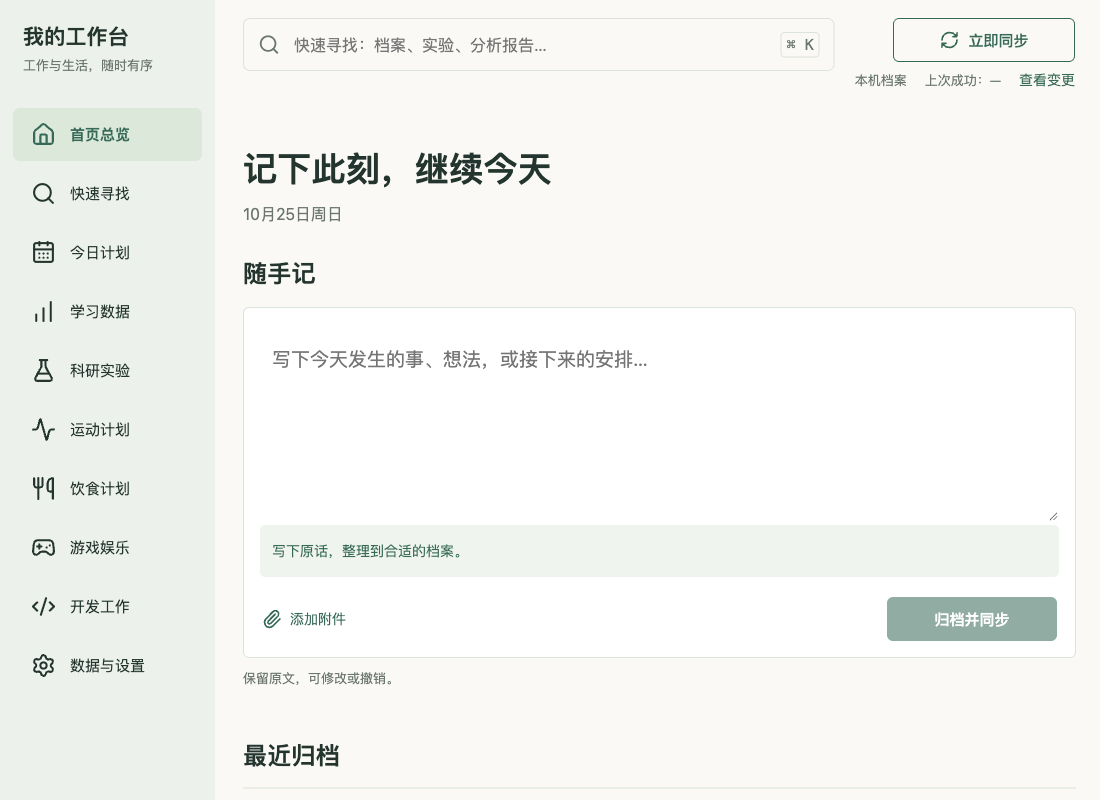
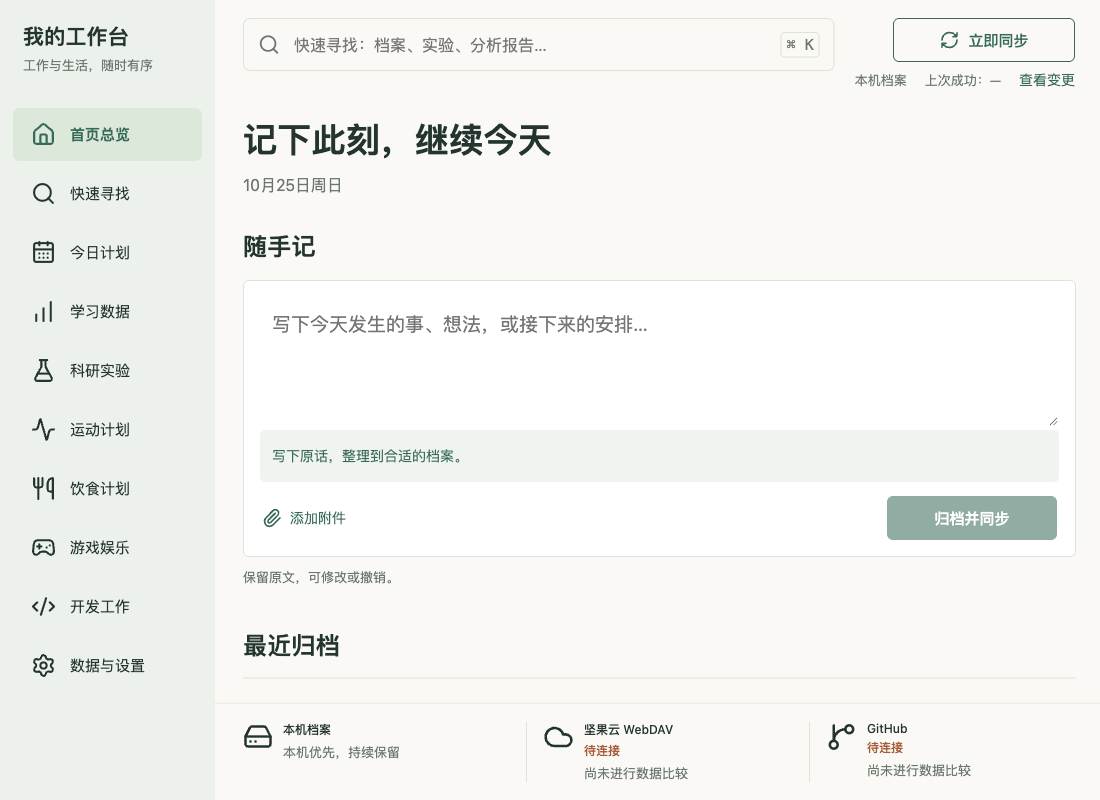
release: verify local workbench candidate and packaged Mac app

diff --git a/tests/electron/acceptance-boundaries.spec.ts b/tests/electron/acceptance-boundaries.spec.ts
@@ -1,0 +1,33 @@
+import { test,expect } from '@playwright/test'
+import { launchTestApp } from '../helpers/electron-app'
+import { fakeWebdav } from '../helpers/fake-webdav'
+import { makeRecord } from '../../src/shared/schemas'
+import { serializeRecord } from '../../src/main/archive/codec'
+import { mkdir,writeFile } from 'node:fs/promises'
+import { join } from 'node:path'
+
+test('reviewed cloud differences visibly identify additions, edits, deletions, direction and comparison time',async()=>{
+ const dav=await fakeWebdav(),t=await launchTestApp({syncReady:true});try{
+  await t.page.evaluate(async url=>{await window.aia.connections.configure({id:'webdav',url,username:'synthetic',secret:'SYNTHETIC_ONLY'});await window.aia.connections.test('webdav');await window.aia.sync.run()},dav.url)
+  const edit=makeRecord('document',{title:'修改项',body:'old'}),remove=makeRecord('document',{title:'删除项',body:'old'})
+  await t.page.evaluate(async records=>{for(const record of records)await window.aia.records.save({record,expectedHash:null});await window.aia.sync.run()},[edit,remove])
+  const e=(await t.page.evaluate(id=>window.aia.records.get(id),edit.id))!,r=(await t.page.evaluate(id=>window.aia.records.get(id),remove.id))!
+  // The restore guard lets us inspect all differences without publishing them first.
+  const ready=join(t.stateRoot,'settings/archive-ready.json');await writeFile(ready,JSON.stringify({ready:false}));await t.app.close()
+  const next=await launchTestApp({archiveRoot:t.archiveRoot,stateRoot:t.stateRoot});try{
+   await next.page.evaluate(async p=>{await window.aia.records.save({record:{...p.e.record,body:'edited'},expectedHash:p.e.hash});await window.aia.records.remove(p.r.record.id,p.r.hash);await window.aia.records.save({record:p.add,expectedHash:null});await window.aia.sync.run()},{e,r,add:makeRecord('document',{title:'新增项',body:'new'})})
+   await next.page.getByRole('button',{name:'查看变更',exact:true}).click();const region=next.page.getByRole('region',{name:'本轮变更比较'});await expect(region).toContainText('来源已完整比较');await expect(region).toContainText('新增');await expect(region).toContainText('修改');await expect(region).toContainText('删除');await expect(region).toContainText('坚果云 WebDAV');const state=await next.page.evaluate(()=>window.aia.sync.getState());await expect(region).toContainText(state.comparison!.at);await expect(region).toContainText(e.path);await expect(region).toContainText(r.path)
+  }finally{await next.close()}
+ }finally{await t.close();await dav.close()}
+})
+
+test('a file actually archived externally becomes searchable while a chat-only sentence stays absent',async()=>{
+ const t=await launchTestApp();try{const archived=makeRecord('document',{module:'learning',title:'合成授权工具落档',body:'实际落档边界唯一词'}),chatOnly='仅聊天未落档边界唯一词';const dir=join(t.archiveRoot,'学习数据');await mkdir(dir,{recursive:true});await writeFile(join(dir,'授权落档.md'),serializeRecord(archived));await expect.poll(async()=>(await t.page.evaluate(()=>window.aia.search.query({query:'实际落档边界唯一词'}))).items.map(i=>i.recordId)).toContain(archived.id);expect((await t.page.evaluate(query=>window.aia.search.query({query}),chatOnly)).items).toHaveLength(0);await t.page.getByLabel('全局关键词搜索').fill('实际落档边界唯一词');await t.page.getByLabel('全局关键词搜索').press('Enter');await expect(t.page.getByRole('button',{name:/合成授权工具落档/})).toBeVisible()}finally{await t.close()}
+})
+
+test('search module, type and inclusive date filters narrow real content without changing its identity',async()=>{
+ const t=await launchTestApp();try{
+  const records=[makeRecord('note',{module:'learning',title:'目标筛选记录',date:'2026-10-25',body:'筛选验收关键词'}),makeRecord('document',{module:'learning',title:'不同类型',date:'2026-10-25',body:'筛选验收关键词'}),makeRecord('note',{module:'learning',title:'不同日期',date:'2026-10-24',body:'筛选验收关键词'}),makeRecord('document',{module:'research',title:'不同模块',date:'2026-10-25',body:'筛选验收关键词'})]
+  await t.page.evaluate(async records=>{for(const record of records)await window.aia.records.save({record,expectedHash:null})},records);await t.page.getByLabel('全局关键词搜索').fill('筛选验收关键词');await t.page.getByLabel('全局关键词搜索').press('Enter');await expect(t.page.getByText('找到 4 份内容',{exact:true})).toBeVisible();await t.page.getByLabel('搜索模块',{exact:true}).selectOption('learning');await expect(t.page.getByText('找到 3 份内容',{exact:true})).toBeVisible();await t.page.getByLabel('搜索类型',{exact:true}).selectOption('note');await expect(t.page.getByText('找到 2 份内容',{exact:true})).toBeVisible();await t.page.getByLabel('搜索开始日期',{exact:true}).fill('2026-10-25');await t.page.getByLabel('搜索结束日期',{exact:true}).fill('2026-10-25');await expect(t.page.getByText('找到 1 份内容',{exact:true})).toBeVisible();await t.page.getByRole('button',{name:'打开档案：目标筛选记录',exact:true}).click();await expect(t.page.getByRole('dialog',{name:'目标筛选记录'})).toContainText(records[0].body)
+ }finally{await t.close()}
+})

diff --git a/tests/electron/visual.spec.ts b/tests/electron/visual.spec.ts
@@ -2,3 +2,18 @@ import { test,expect } from '@playwright/test'
 import { launchTestApp } from '../helpers/electron-app'
 import { mkdir } from 'node:fs/promises'
 test('desktop and smaller windows keep primary controls reachable without horizontal overflow',async()=>{const t=await launchTestApp();try{const errors:string[]=[];t.page.on('pageerror',e=>errors.push(e.message));for(const size of [{width:1487,height:1058},{width:1100,height:800}]){await t.page.setViewportSize(size);await expect(t.page.getByRole('heading',{name:'随手记',exact:true})).toBeVisible();await expect(t.page.getByRole('button',{name:'归档并同步',exact:true})).toBeVisible();await expect(t.page.getByRole('button',{name:'立即同步',exact:true})).toBeVisible();expect(await t.page.evaluate(()=>document.documentElement.scrollWidth<=window.innerWidth)).toBe(true);await mkdir('docs/acceptance/screenshots',{recursive:true});await t.page.screenshot({path:`docs/acceptance/screenshots/home-${size.width}.png`})}expect(errors).toEqual([])}finally{await t.close()}})
+
+test('populated synthetic home preserves selected composition, primary controls and readable detail at both desktop sizes',async()=>{
+ const {makeRecord}=await import('../../src/shared/schemas'),{join}=await import('node:path'),{writeFile}=await import('node:fs/promises'),daily=(await import('../fixtures/garmin/daily.json',{with:{type:'json'}})).default
+ const t=await launchTestApp();try{
+  const errors:string[]=[];t.page.on('pageerror',e=>errors.push(e.message));const dir=join(t.archiveRoot,'运动/数据/2026-10-25');await mkdir(dir,{recursive:true});await writeFile(join(dir,'佳明快照.json'),JSON.stringify(daily))
+  const note=makeRecord('note',{module:'learning',title:'合成示例：偏微分方程笔记',date:'2026-10-25',body:'用于界面验收的合成笔记，不是个人档案。',data:{chapter:'边值问题',durationMin:30,nextStep:'复习证明'}}),experiment=makeRecord('experiment',{module:'research',title:'合成示例：实验参数比较',date:'2026-10-25',body:'用于界面验收的合成结果。',data:{experimentNo:'DEMO-01',status:'running',purpose:'比较参数',parameters:{step:0.1},result:'等待结果'}})
+  await t.page.evaluate(async p=>{for(const record of p.records)await window.aia.records.save({record,expectedHash:null});await window.aia.plans.schedule({sourceId:p.noteId,date:'2026-10-25',title:'合成示例：复习证明'})},{records:[note,experiment],noteId:note.id})
+  await t.page.getByLabel('随手记内容',{exact:true}).fill('今天早餐吃了鸡蛋');await expect(t.page.getByLabel('事项1分类')).toHaveValue('diet');await expect(t.page.getByRole('region',{name:'佳明今日'})).toContainText('1234')
+  for(const size of [{width:1487,height:1058},{width:1100,height:800}]){
+   await t.page.setViewportSize(size);await t.page.evaluate(()=>window.scrollTo(0,0));await expect(t.page.getByRole('button',{name:'立即同步',exact:true})).toBeInViewport();await expect(t.page.getByRole('button',{name:'归档并同步',exact:true})).toBeInViewport();expect(await t.page.evaluate(()=>document.documentElement.scrollWidth<=innerWidth)).toBe(true);await expect(t.page.locator('footer.sync-footer')).toBeInViewport();if(size.width===1487)await expect(t.page.locator('.recent-row').nth(1)).toBeInViewport();await t.page.screenshot({path:`docs/acceptance/screenshots/home-filled-${size.width}.png`});await t.page.screenshot({path:`docs/acceptance/screenshots/home-filled-${size.width}-full.png`,fullPage:true})
+  }
+  await t.page.getByRole('button',{name:'打开档案：'+note.title,exact:true}).click();await expect(t.page.getByRole('dialog',{name:note.title})).toContainText(note.body);await t.page.screenshot({path:'docs/acceptance/screenshots/record-detail-1100.png'});await t.page.getByRole('button',{name:'关闭详情'}).click()
+  await t.page.getByRole('navigation').getByRole('button',{name:'数据与设置',exact:true}).click();await t.page.getByLabel('坚果云应用密码').scrollIntoViewIfNeeded();await t.page.screenshot({path:'docs/acceptance/screenshots/settings-1100.png'});expect(errors).toEqual([])
+ }finally{await t.close()}
+})

diff --git a/tests/electron/packaged-app.spec.ts b/tests/electron/packaged-app.spec.ts
@@ -1,0 +1,34 @@
+import { test,expect } from '@playwright/test'
+import { mkdtemp,mkdir,writeFile,readFile,rm,stat } from 'node:fs/promises'
+import { tmpdir } from 'node:os'
+import { join,isAbsolute,resolve } from 'node:path'
+import { launchTestApp } from '../helpers/electron-app'
+import { makeRecord } from '../../src/shared/schemas'
+import { createHash } from 'node:crypto'
+
+test('packaged Mac app loads bundled UI and native SQLite, persists records and attachments across explicit quit, and keeps local use available without encryption',async()=>{
+ const executable=resolve('dist/mac-arm64/我的工作台.app/Contents/MacOS/我的工作台')
+ expect((await stat(executable)).isFile()).toBe(true)
+ const root=await mkdtemp(join(tmpdir(),'aia-packaged-')),archiveRoot=join(root,'archive'),stateRoot=join(root,'state');let first:Awaited<ReturnType<typeof launchTestApp>>|undefined,next:Awaited<ReturnType<typeof launchTestApp>>|undefined
+ try{
+  await mkdir(archiveRoot,{recursive:true});await mkdir(stateRoot,{recursive:true});first=await launchTestApp({packaged:executable,archiveRoot,stateRoot})
+  expect(await first.app.evaluate(({app})=>({packaged:app.isPackaged,path:app.getAppPath()}))).toMatchObject({packaged:true,path:expect.stringContaining('app.asar')})
+  expect(first.page.url()).toMatch(/^file:/);expect((await first.page.evaluate(()=>window.aia.runtime())).sqliteReady).toBe(true)
+  const bytes=Buffer.from([0,1,128,255,9]),input=join(root,'合成附件.bin');await writeFile(input,bytes);await first.app.evaluate(({dialog},path)=>{dialog.showOpenDialog=async()=>({canceled:false,filePaths:[path]})},input)
+  const [attachment]=await first.page.evaluate(()=>window.aia.attachments.choose());expect(isAbsolute(attachment.path)).toBe(false);expect(attachment.hash).toBe(createHash('sha256').update(bytes).digest('hex'))
+  const note=makeRecord('note',{module:'learning',title:'打包重开验收',date:'2026-10-25',body:'打包应用独立持久化关键词',attachmentIds:[attachment.id]})
+  await first.page.evaluate(async record=>{await window.aia.records.save({record,expectedHash:null});await window.aia.drafts.save('home','尚未提交的打包草稿')},note)
+  const child=first.app.process(),exited=new Promise<void>(r=>child.once('exit',()=>r()));await first.app.evaluate(({app})=>app.quit());await exited;await first.close();first=undefined
+  next=await launchTestApp({packaged:executable,archiveRoot,stateRoot})
+  expect((await next.page.evaluate(()=>window.aia.search.query({query:'打包应用独立持久化关键词'}))).items[0].recordId).toBe(note.id)
+  expect(await next.page.evaluate(()=>window.aia.drafts.get('home'))).toBe('尚未提交的打包草稿')
+  const stored=await next.page.evaluate(id=>window.aia.attachments.resolve(id),attachment.id);expect(stored?.hash).toBe(attachment.hash);expect(await readFile(join(archiveRoot,attachment.path))).toEqual(bytes)
+  await next.app.evaluate(({safeStorage})=>{safeStorage.isAsyncEncryptionAvailable=async()=>false})
+  await next.page.getByRole('navigation').getByRole('button',{name:'数据与设置',exact:true}).click()
+  await next.page.getByLabel('坚果云WebDAV地址').fill('https://example.invalid/dav/app/')
+  await next.page.getByLabel('坚果云用户名').fill('synthetic-user');await next.page.getByLabel('坚果云应用密码').fill('TEST_ONLY_UNAVAILABLE_SECRET')
+  await next.page.getByRole('button',{name:'保存坚果云连接',exact:true}).click();await expect(next.page.getByRole('status',{name:'操作提示'})).toContainText('本机档案仍可使用')
+  const local=makeRecord('document',{title:'加密不可用后仍保存',body:'本机功能继续可用'});await next.page.evaluate(record=>window.aia.records.save({record,expectedHash:null}),local)
+  expect((await next.page.evaluate(id=>window.aia.records.get(id),local.id))?.record.body).toBe(local.body)
+ }finally{await first?.close();await next?.close();await rm(root,{recursive:true,force:true})}
+})

diff --git a/tests/electron/capture.spec.ts b/tests/electron/capture.spec.ts
@@ -64,3 +64,12 @@ test('attachment changes preserve reviewed fields and IDs, and pending commit fr
     expect(r.record.date).toBe('2026-10-24')
   } finally { await t.close() }
 })
+
+test('a failed local transaction keeps capture text and reviewed fields, reports failure and permits retry',async()=>{
+ const t=await launchTestApp();const {rename,rm}=await import('node:fs/promises');const transactionDir=join(t.stateRoot,'state/transactions');try{
+  const text='今天早餐吃了鸡蛋';await t.page.getByLabel('随手记内容',{exact:true}).fill(text);await expect(t.page.getByLabel('事项1分类')).toHaveValue('diet');await t.page.getByLabel('事项1标题').fill('失败仍保留的早餐')
+  await rename(transactionDir,transactionDir+'.saved');await writeFile(transactionDir,'SYNTHETIC_DISK_FAILURE')
+  await t.page.getByRole('button',{name:'归档并同步',exact:true}).click();await expect(t.page.getByRole('alert')).toBeVisible();await expect(t.page.getByLabel('随手记内容',{exact:true})).toHaveValue(text);await expect(t.page.getByLabel('事项1标题')).toHaveValue('失败仍保留的早餐');await expect(t.page.getByRole('status',{name:'操作提示'}).filter({hasText:'已保存到本机'})).toHaveCount(0);expect(await t.page.evaluate(()=>window.aia.records.list({kind:'meal'}))).toHaveLength(0)
+  await rm(transactionDir);await rename(transactionDir+'.saved',transactionDir);await t.page.getByRole('button',{name:'归档并同步',exact:true}).click();await expect(t.page.getByRole('status',{name:'操作提示'})).toContainText('已保存到本机');expect((await t.page.evaluate(()=>window.aia.records.list({kind:'meal'})))[0].record.title).toBe('失败仍保留的早餐')
+ }finally{await t.close()}
+})

diff --git a/src/renderer/styles/layout.css b/src/renderer/styles/layout.css
@@ -25,3 +25,6 @@
 .backup-preview{border:1px solid var(--line);padding:18px;margin-top:18px;border-radius:10px}.backup-preview label{margin-bottom:14px}.backup-preview input{width:100%}
 
 .comparison-table{max-height:420px;overflow:auto}
+/* Keep the selected desktop composition visible after editable capture fields appear. */
+.topbar{padding-bottom:10px}.home-title{margin-top:10px;margin-bottom:32px}.home-title h2{font-size:40px}.capture-box{padding-top:16px}.capture-box textarea{min-height:130px}.capture-items fieldset{padding:9px;margin:8px 0}.capture-actions{margin-top:14px}.recent-section{margin-top:28px}.recent-row{padding:16px 0}.workspace{padding-bottom:100px}.sync-footer{position:fixed;left:260px;right:0;bottom:0;background:var(--bg);z-index:2;min-height:90px}
+@media(max-width:1200px){.sync-footer{left:215px}.home-title h2{font-size:34px}}

diff --git a/tests/helpers/electron-app.ts b/tests/helpers/electron-app.ts
@@ -12,6 +12,7 @@ export async function launchTestApp(options: { archiveRoot?:string; stateRoot?:s
   if(options.background)env.AIA_TEST_BACKGROUND='1'
   if(options.githubAPI)env.AIA_TEST_GITHUB_API_BASE=options.githubAPI
   delete env.ELECTRON_RUN_AS_NODE
+  delete env.ELECTRON_RENDERER_URL
   if(options.captureReplyDelayMs)env.AIA_TEST_CAPTURE_REPLY_DELAY=String(options.captureReplyDelayMs)
   const app=await electron.launch({args:options.packaged?[]:[resolve('out/main/index.js')],...(options.packaged?{executablePath:options.packaged}:{}),env})
   const page=await app.firstWindow()

diff --git a/README.md b/README.md
@@ -1,0 +1,78 @@
+# 我的工作台
+
+仅在自己电脑运行的工作与生活档案 APP。采用已确认的“随手记为主＋暖白松绿”界面；本地 Markdown、JSON 和附件是原件，SQLite 只是可重建的搜索索引。
+
+当前为 **0.1.0 本机候选版**。真实坚果云／GitHub 账号按用户要求稍后配置，真实整库迁移与原后台交接尚未执行，因此不宣称首版全部验收完成。详见 [验收矩阵](docs/acceptance/A01-A24.md)。
+
+## 运行
+
+已构建的 Apple Silicon 应用：`dist/mac-arm64/我的工作台.app`。在 Finder 中双击，或在本工程执行：
+
+```sh
+open dist/mac-arm64/我的工作台.app
+```
+
+本机个人版没有购买签名证书或上传商店；遇到系统授权提示，使用 macOS 对该应用提供的正常授权入口，不需要关闭系统安全设置。测试不会替你修改系统授权。
+
+从源码运行（macOS arm64，Node 24.22.1，依赖锁定于 package-lock.json）：
+
+```sh
+./scripts/setup-node.sh
+./scripts/npmw ci
+./scripts/npmw run build
+./scripts/start-local.sh
+```
+
+开发热更新用 `./scripts/npmw run dev`；生成应用用 `./scripts/npmw run package:mac`。没有服务器、云数据库或付费模型依赖。构建工具和依赖首次下载需要网络。
+
+## 页面与使用
+
+侧栏十个同级入口依次是首页总览、快速寻找、今日计划、学习数据、科研实验、运动计划、饮食计划、游戏娱乐、开发工作、数据与设置。
+
+- 首页随手记：输入原话，核对分类、日期、性质后归档。原文与派生事项同时保存；复杂内容保留待整理，不猜测数量、热量或结论。附件作为原文件保存，不识别食物。
+- 快速寻找：标题、正文、实验编号、参数和报告关键词均可查找，支持模块、类型与日期筛选，结果打开同一份档案。
+- 今日计划：关联模块来源或独立待办，完成、撤销、延期、时间与优先级共用一个稳定身份。完成计划不自动变成事实或科研成果。
+- 各模块有自身字段：科目笔记与疑问、编号实验与参数结果、佳明与手动运动、实际饮食与未来饮食安排、游戏进度与游玩历史、开发项目与问题版本。
+- 首页显示实际数据或空状态。测试截图中的“合成示例”不会写入正式档案。
+
+佳明页读取现有 MCP 工作流已经写入档案的快照和历史，不要求截图，不代替已有佳明采集任务。关闭 APP 后，APP 本身不运行同步。关闭窗口会隐藏到菜单栏并继续运行；使用菜单栏“退出 APP”或显式退出才停止。运行期间启动时比较、每五分钟检查、修改停止十秒后检查，也可在首页点击立即同步。
+
+## 数据在哪里
+
+默认目录：`~/Library/Application Support/AIA-Workbench`。
+
+| 内容 | 默认位置 | 要点 |
+| --- | --- | --- |
+| 档案原件和附件 | `archive/` | 接入现有目录或恢复后可能位于用户选择的位置 |
+| 档案身份、映射、删除与恢复标记 | 档案下 `.aia/` | 保留这些元数据以维持跨端身份 |
+| 事务、对象、同步日志、草稿 | 当前状态目录 `state/`、`drafts/` 等 | 不是可随意丢弃的缓存；完整备份会收录必要状态 |
+| 搜索索引 | 当前状态目录 `cache/index.sqlite` | 设置中可重建，不是唯一数据来源 |
+| 连接与凭据 | 当前状态目录 `settings/`、`credentials/` | 凭据使用系统加密；不会进入云档案或普通导出 |
+| 当前工作目录指针 | 默认目录 `settings/workspace.json` | 接入／恢复后指向选定档案及独立状态目录 |
+
+请使用 APP“导出完整备份”，不要只复制 SQLite 或单个业务文件夹当成完整备份。首次接入、重大迁移和恢复前保留独立备份。完整备份包含原件、附件、草稿和必要历史，逐文件校验 SHA-256；不包含凭据、可重建缓存、锁或 Git 提交历史。
+
+恢复先检查 ZIP，再恢复到新的独立目录，不覆盖当前档案。恢复后暂停云端发布，重新配置连接、核对当前差异并明确选择继续合并；不会把旧版本立即覆盖云端。备份含个人原文和附件，应存放在自己掌控的位置。
+
+## 配置同步
+
+在“数据与设置”填写专用连接，密码／令牌不要发到聊天中。
+
+1. 坚果云：为 APP 指定独立 WebDAV 文件夹，填写账号与第三方应用密码，保存后测试连接。GitHub：填写档案库所有者、仓库、分支与仅授权该库的限定令牌（Contents 读写、Metadata 读取）。两端可单独启用。
+2. 先检查云端和本地目录，再核对完整差异，确认档案身份后开启同步。验证连接成功只说明可连接，不表示文件已经同步。
+3. 接入已有档案前，通过源目录只读核对和完整备份；旧 Git 同步工具必须确认暂停且没有在途写入。APP 不会擅自停止原后台。详见 [真实接入步骤](docs/acceptance/real-data-onboarding.md) 和 [后台交接](docs/acceptance/background-handoff.md)。
+4. 初次整库迁移生成绑定源指纹和目标版本的清单；源变化须重算，限额或中断后可回读并重试。迁移普通工作文件和附件，排除 `.git`、被忽略文件、凭据与设备状态，不宣称把 Git 历史复制到坚果云。
+
+本地、GitHub、WebDAV 由同一个协调器比较，各云端独立记录成功时间。实际通过授权工具写入档案的聊天内容才能接回 APP；仅留在聊天中的内容不会被读取或假报归档。冲突保留候选，支持选择、手动合并和保留两份；不会覆盖式强推。授权失败需更新连接，限流等待服务端要求的时间。无网络仍可保存本地，之后补传。
+
+系统加密暂不可用时不会明文保存凭据，本地档案和编辑仍可使用；恢复、换电脑或系统无法解密时，在 APP 重新填写连接。ChatGPT／Codex 已登录的插件凭据不会自动交给这个独立 APP。
+
+## 验证与限制
+
+```sh
+./scripts/npmw run test:all
+```
+
+完整门禁依次运行类型检查、lint、单元、集成、打包与全部 Electron 测试，其中包含真正启动 `.app` 的持久化测试；失败即停止，不跳过打包测试。单项命令见 package.json。所有自动化使用临时目录与合成数据，不触碰真实主库、账号或佳明数据。
+
+详细结果见 [发布检查](docs/acceptance/release-checklist.md)、[视觉复核](docs/acceptance/visual-review.md) 和 [实施记录](docs/implementation-progress.md)。本版暂不含多人登录、Android、云数据库、完整 Obsidian 接入、通用聊天监听或付费 AI；未来按独立档案身份和模块接口扩展。

diff --git a/docs/acceptance/A01-A24.md b/docs/acceptance/A01-A24.md
@@ -1,0 +1,38 @@
+# PRD A01–A24 验收记录
+
+日期：2026-10-26；环境：本机 macOS arm64。范围：合成隔离档案、真实 Electron／打包应用、本机 HTTP 协议夹具。**没有使用真实云端账号；真实接入、原后台交接和整库迁移待验证。**
+
+“本机通过”只表示所列自动化或实际界面对照通过，不代表对应真实服务已经验收。最终门禁命令、数量与产物记录见 release-checklist.md；所有实现与测试随项目保存。
+
+| 编号 | 现有证据（tests/ 下） | 结果和边界 |
+| --- | --- | --- |
+| A01 导航与视觉 | electron/navigation-search.spec.ts、visual.spec.ts；design-qa.md、截图对照 | 本机通过；十个同级入口、两种尺寸、空／填充状态 |
+| A02 本机持久化 | electron/persistence.spec.ts、packaged-app.spec.ts；integration/archive-recovery.test.ts | 本机通过；刷新、进程终止、显式退出重开、SQLite、草稿和附件 SHA |
+| A03 随手记事实 | unit/capture-parser.test.ts、electron/capture.spec.ts | 本机通过；早餐日期、actual、原文关联，数量及营养不编造 |
+| A04 计划与事实 | unit/capture-parser.test.ts、electron/diet.spec.ts | 本机通过；未来意图、否定、计划与事实分离 |
+| A05 不确定内容 | unit/capture-parser.test.ts、electron/capture.spec.ts | 本机通过；范围、原文、待整理与人工纠正 |
+| A06 保存与网络失败 | integration/archive-recovery.test.ts、capture-service.test.ts、sync-coordinator.test.ts；electron/capture.spec.ts“failed local transaction” | 本机通过；实际制造事务目录故障，输入和修正保留、无成功提示，修复磁盘后重试；网络合成失败保留队列 |
+| A07 搜索与定位 | electron/search.spec.ts、navigation-search.spec.ts、acceptance-boundaries.spec.ts“search module, type” | 本机通过；中文、符号、参数、正文、报告、模块／类型／日期筛选及同 ID 详情 |
+| A08 搜索更新 | electron/search.spec.ts、sync-flow.spec.ts、acceptance-boundaries.spec.ts | 本机通过；外部文件和合成 GitHub 接回后索引更新；真实云接回待验 |
+| A09 计划关联 | unit/plan-service.test.ts、electron/plans.spec.ts、product-completeness.spec.ts | 本机通过；同 ID 状态、延期、时间优先级编辑，来源数据不变 |
+| A10 GitHub 接回 | integration/github-adapter.test.ts、sync-coordinator.test.ts；electron/sync-flow.spec.ts | 合成协议／本机文件通过；真实私有档案库→APP→坚果云待验 |
+| A11 WebDAV 接回 | integration/webdav-adapter.test.ts、sync-coordinator.test.ts | 合成协议通过；真实坚果云→APP→GitHub及真实单端模式待验 |
+| A12 两端上传与状态 | integration/sync-journal.test.ts、sync-coordinator.test.ts；electron/sync-flow.spec.ts | 合成两端回读和独立成功时间通过；真实文件 SHA 与时间待验 |
+| A13 部分失败与补传 | integration/sync-coordinator.test.ts、sync-journal.test.ts | 合成离线、重启、丢失回执、旧计划不重放通过；真实服务断网补传待验 |
+| A14 冲突与删除 | unit/sync-planner.test.ts；integration/sync-coordinator.test.ts；electron/sync-flow.spec.ts | 合成三端、删改、墓碑、过期选择、候选文本、保留两份通过；真实闭环待验 |
+| A15 变更比较 | electron/acceptance-boundaries.spec.ts“reviewed cloud differences”；integration/sync-coordinator.test.ts | 本机可见新增／修改／删除、方向和比较时间通过；十轮无变化不写入；真实比较待验 |
+| A16 整库迁移 | integration/migration.test.ts、archive-setup.test.ts；electron/archive-setup.spec.ts | 合成未知／隐藏普通文件、附件、同名冲突、限额重启、陈旧源拒绝通过；真实整库及原后台交接待验，Git 历史不属于坚果云工作文件迁移 |
+| A17 备份与恢复 | integration/backup-restore.test.ts、electron/backup.spec.ts | 本机通过；独立目录恢复、必要历史、附件、草稿、关联、损坏／恶意 ZIP 拒绝 |
+| A18 旧备份恢复后同步 | integration/sync-coordinator.test.ts、electron/backup.spec.ts | 合成冻结、差异预览、陈旧批准拒绝、显式继续通过；真实旧备份与云端新版本待验 |
+| A19 佳明真实性 | unit/garmin-normalizer.test.ts；integration/garmin-reader.test.ts；electron/sports.spec.ts | 合成成功／旧值／缺项及源字节不变通过；真实既有 MCP 档案持续回流待验；未调用 Garmin 改任务 |
+| A20 科目与科研 | electron/learning.spec.ts、research.spec.ts | 本机通过；自定义科目、章节、编号、参数、结果、附件、下一步与搜索 |
+| A21 场景基础功能 | electron/diet.spec.ts、games.spec.ts、development.spec.ts、product-completeness.spec.ts | 本机通过；模块自身字段、历史和版本同 ID 编辑，项目改名保留独立仓库 URL |
+| A22 摘要与周报 | unit/report-rules.test.ts；electron/reports.spec.ts、product-completeness.spec.ts | 本机通过；实际、计划、模板和参考区分，未知时长不补零，报告来源可跳转 |
+| A23 聊天落档边界 | electron/acceptance-boundaries.spec.ts“a file actually archived externally”；electron/sync-flow.spec.ts | 本机成对检查通过：实际文件可搜、仅聊天句不可搜；真实授权工具→云档案→APP待验，未实施聊天监听 |
+| A24 连接和额度异常 | unit/request-budget.test.ts、credential-vault.test.ts；integration/webdav-adapter.test.ts、github-adapter.test.ts、sync-coordinator.test.ts；electron/connections.spec.ts、packaged-app.spec.ts | 合成 401／429／507、持久预算、系统加密不可用及成功时间保护通过；真实条件写入／服务限额待验 |
+
+## 尚需真实账号完成的闭环
+
+按 real-data-onboarding.md 和 background-handoff.md 执行：独立备份→旧后台交接→真实端点能力及身份核对→完整迁移清单→APP写入两端回读→指定端外部修改回到APP与另一端→授权工具实际落档→测试清理后核对。用户明确选择稍后配置，本轮没有再次索要或从聊天收集凭据。
+
+未经真实证据不得把以上“待验”改为“真实通过”，也不得把整个首版标为全部验收完成。

diff --git a/design-qa.md b/design-qa.md
@@ -1,0 +1,48 @@
+# 设计对照验收
+
+日期：2026-10-26。唯一视觉依据：`design/home-selected-warm-white-pine.png`，用户已选“第3种随手归档布局＋第2套暖白松绿配色”。未重新选择主题。
+
+## 对照环境与证据
+
+- 来源：1487×1058 像素。实际 Electron Chromium 页面：1487×1058 CSS 像素、截图同为1487×1058；小窗1100×800 CSS像素、截图1100×800。截图密度1，无设备框或浏览器工具栏，未拉伸比较。
+- 空状态：`docs/acceptance/screenshots/home-1487.png`、`home-1100.png`。
+- 填充状态：`docs/acceptance/screenshots/home-filled-1487.png`、`home-filled-1100.png`；同名 `-full.png` 是滚动长页证据，不拿长页高度与原图做比例判断。
+- 细节：`record-detail-1100.png`、`settings-1100.png`。所有填充值为隔离测试数据，带“合成示例”标题，未写入正式 APP。
+- 已实际打开来源图、空状态及两种尺寸填充截图逐项比较。重点检查左侧选中导航、顶部搜索／同步、随手记字段与按钮、右侧佳明日期／旧值、底部三端状态，以及小窗详情与连接表单。上述区域在原尺寸图内可读，直接按区域检查，没有把图片缩成缩略图后判断字体。
+
+## 对照历史与修复
+
+初轮发现 [P2] 填充后的编辑字段增加高度，把最近归档和底部同步状态推离首屏；首页主标题也比选图弱。实际截图中随手记底部约808px，而参考约660px，底部状态随长页滚走。
+
+新增自动化：填充后在两种尺寸均要求三端状态可见；1487尺寸还要求至少第二条最近归档可见。首次运行失败于footer不在视口内（`aia-t24-visual-red.log`）。调整标题层级与顶部间距、缩短初始输入高度、压缩预览间距、固定底部状态并为正文保留空间。两项视觉测试随后全部通过（`aia-t24-visual-green.log`），重新查看以上最终截图：1487首屏显示随手记、两条最近归档、右侧计划／佳明／周报和三端状态；1100首屏可直接点击同步及归档，右侧摘要按响应式规则进入下方。
+
+## 五项必要视觉检查
+
+| 表面 | 实际检查与结论 |
+| --- | --- |
+| 字体／排版 | 使用macOS中文无衬线PingFang SC及系统回退；40px主标题、24px区块标题、14–16px主要正文，文字层级和选图一致。可编辑日期使用系统控件，日期的斜杠样式和生成图不同，属于可接受的系统表现。无关键标题异常换行；次级来源路径可换行。 |
+| 留白／布局节奏 | 1487左栏260px、右栏340px、主体大幅输入区和细分隔线；小窗左栏215px、主体单列、摘要下移。修复后最近记录与底部状态首屏可见，无横向溢出；模块摘要在最近归档下方，保持输入为主。 |
+| 颜色／语义 | 暖白#FAF9F5、浅灰绿#EDF1EB、深文字#24352F、松绿#376958、分隔#DCE3DA、高亮#DBE8DA沿用PRD；未连接、旧值、失败均有文字，不只靠颜色。 |
+| 图像／图标 | 参考为功能界面，无照片、插图或需生成的位图资产；使用现有Lucide图标库，尺寸／描边一致，没有用手画SVG冒充图像。与生成图的个别品牌图标形状不同是可接受的库图标差异。 |
+| 文案／内容 | 正式空档案没有示例早餐、假成功时间、虚构运动数据；填充截图为合成验收档案。实际界面增加分类／日期／性质可编辑字段、旧值说明和来源信息，属于PRD业务需求。没有“布局示意”残留在产品文案中。 |
+
+## 交互与可访问性
+
+真实Electron测试：十个同级导航、关键词及筛选、归档、修改预览、计划状态、来源详情、关闭详情、查看变更、导出恢复及连接表单；1487和1100无横向溢出。主要按钮在视口中；Playwright实际点击和保存流程通过。控件有文字／aria标签，焦点有松绿描边，禁用与正在保存有明确状态。监听pageerror的两项视觉测试没有页面异常。
+
+1100小窗采用纵向滚动，保留随手记和同步操作优先级；其他模块详情和设置表单可正常滚动，不要求把完整长页同时塞进800px高度。
+
+## Findings
+
+当前没有未处理的P0／P1／P2视觉问题。初轮首屏密度问题已修复并复查。P3后续建议：如需跨系统逐像素接近，可另行选配可分发中文字体和自定义品牌应用图标；本轮不增加字体下载依赖。
+
+## Implementation Checklist
+
+- [x] 原选图和真实页面同尺寸对照。
+- [x] 空状态／合成填充状态分别检查。
+- [x] 字体、留白、颜色、资产、文案逐项记录。
+- [x] 首屏密度问题有失败测试、修复和最终截图。
+- [x] 1100小窗归档、同步、详情与设置检查。
+- [x] 页面异常监听与真实主要流程测试。
+
+final result: passed

diff --git a/docs/acceptance/release-checklist.md b/docs/acceptance/release-checklist.md
@@ -1,0 +1,29 @@
+# 本机候选版发布检查
+
+版本：0.1.0；日期：2026-10-26；平台：macOS arm64；状态：本机候选版，真实云接入待验。
+
+## 工具链与产物
+
+- Node 24.22.1、npm 11.19.1、Electron 45.0.0；依赖由 package-lock.json 精确锁定。
+- `package:mac` 先构建再打包，使用已安装的 Electron distribution，不额外下载另一份运行时。
+- app ID：`local.aia.workbench`；应用：`dist/mac-arm64/我的工作台.app`；原生 `.node` 模块解包至 app.asar.unpacked。
+- 本机个人目录包，未购买开发者签名／公证、未上传商店；普通 macOS 授权流程由本人操作。
+- `.app` 实际启动测试已核对 app.isPackaged、asar 内主程序、file: 页面、SQLite，以及显式退出后同目录搜索／草稿／二进制附件 SHA；模拟系统加密不可用仍能本地保存，不降级为明文凭据。
+
+## 阶段证据
+
+- T23 全量门禁：42 unit、100 integration、31 Electron、typecheck/lint/build 全通过；日志 `/tmp/aia-t23-flushed-all.log`（临时日志，长期依据为同版本测试源码与此记录）。
+- T24 缺少产物时 packaged-app 测试先失败；实际 `package:mac` 成功后该测试通过。
+- 保存失败、比较列表、聊天落档边界、搜索筛选与填充视觉专项已加入强制测试；不使用 skip，也不增加旧测试时限。
+- 最终全量门禁：42 unit、100 integration、37 Electron全部通过，typecheck、lint、构建、arm64打包退出0（`/tmp/aia-t24-all.log`）。完整命令 `caffeinate -i ./scripts/npmw run test:all`；仅测试期间避免系统自动休眠。
+- 视觉对照及所有可检查证据见 visual-review.md、项目根 design-qa.md 和 A01-A24.md。
+
+## 数据保护与真实验收边界
+
+- 真实原档案未被本轮功能测试修改，原 Git 后台／LaunchAgent 未被暂停，佳明任务未被修改或重调度。
+- 凭据留待用户在APP安全配置。真实 WebDAV 条件能力、真实 GitHub／坚果云互通、整库迁移、旧后台交接、真实佳明归档持续接回均待验。
+- 自动化模拟通过不等于真实云验收；不宣称 PRD 所有首版必做项已经实际通过。
+- 完整备份／独立恢复演练使用合成档案，通过后仍暂停发布；真实主库备份按接入步骤另做。
+- 未推送代码、未创建云服务器／数据库、未部署网站或手机端。
+
[1 lines of base64/hex data omitted]

diff --git a/docs/acceptance/visual-review.md b/docs/acceptance/visual-review.md
@@ -1,0 +1,15 @@
+# 暖白松绿界面复核
+
+完整对照报告见项目根 [design-qa.md](../../design-qa.md)。参考原图与PRD未修改。
+
+| 状态 | 1487×1058 | 1100×800 |
+| --- | --- | --- |
+| 空档案 | [截图](screenshots/home-1487.png) | [截图](screenshots/home-1100.png) |
+| 合成填充档案 | [截图](screenshots/home-filled-1487.png) | [截图](screenshots/home-filled-1100.png) |
+| 完整滚动内容 | [长页](screenshots/home-filled-1487-full.png) | [长页](screenshots/home-filled-1100-full.png) |
+
+[小窗详情](screenshots/record-detail-1100.png)、[小窗连接设置](screenshots/settings-1100.png) 已查看。原图、实际图均按原尺寸检查，未把示例当用户真实档案。
+
+初轮复核发现填充预览挤下最近归档及底部同步状态，新增视口回归先失败。修复间距、输入初始高度、标题层级和底部常驻状态后，重新截图并通过空／填充测试。两种尺寸均保留归档、同步操作和三端状态；1487首屏显示两条最近归档，小窗右侧摘要纵向下移。
+
+结果：视觉验收通过。原生系统字体、控件及库图标与生成图不要求逐像素相同。真实云端配置仍待验，与视觉通过是不同事项。
